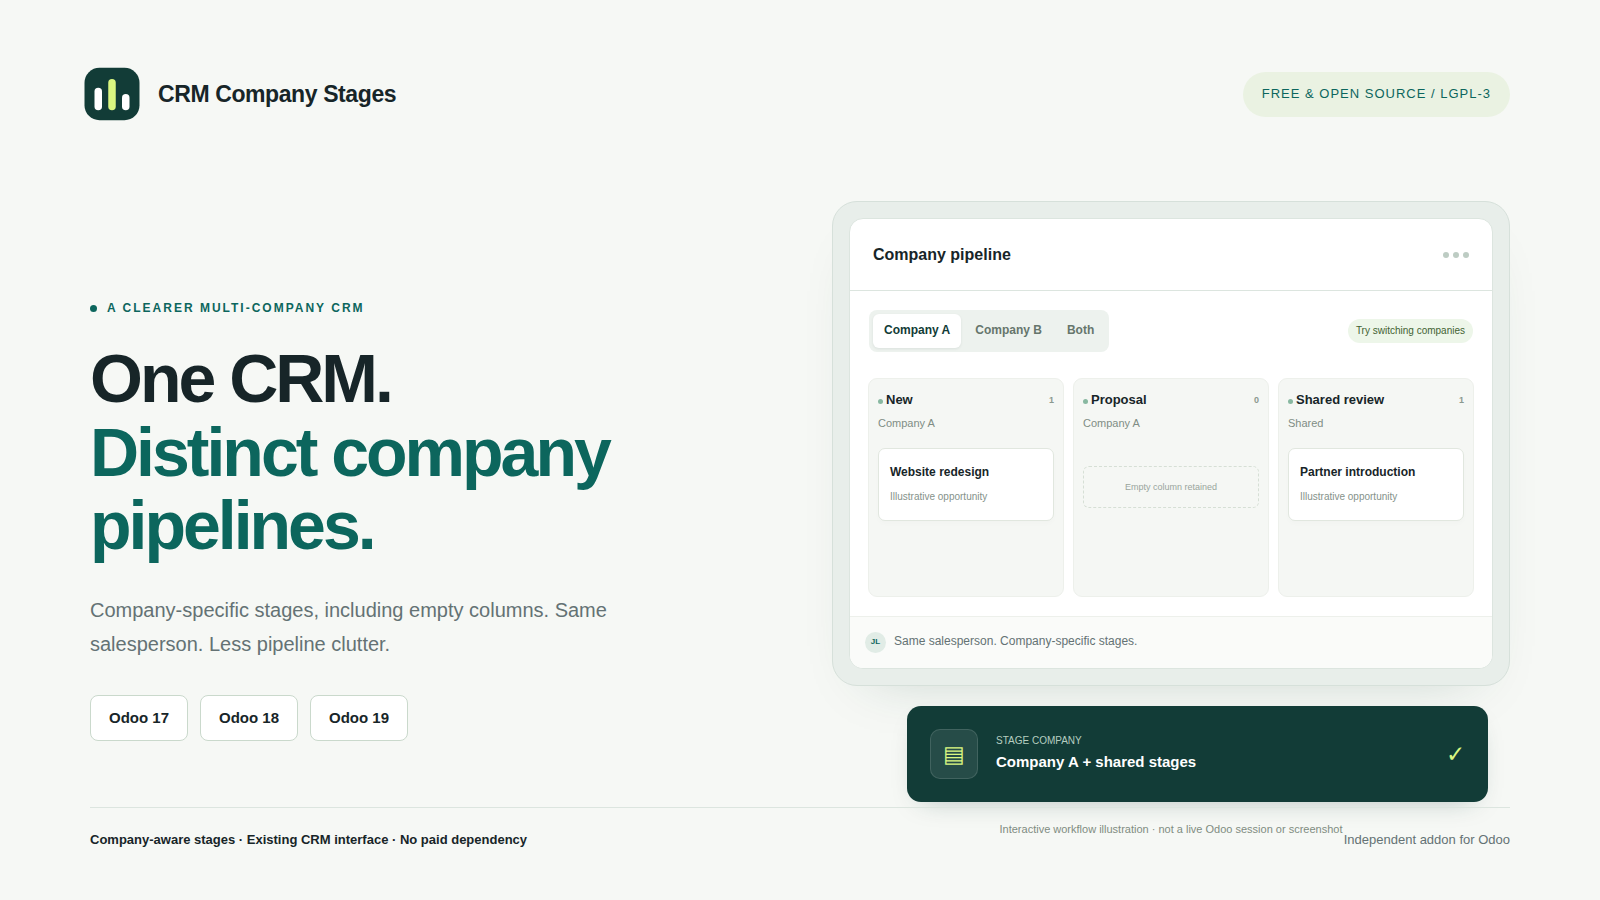
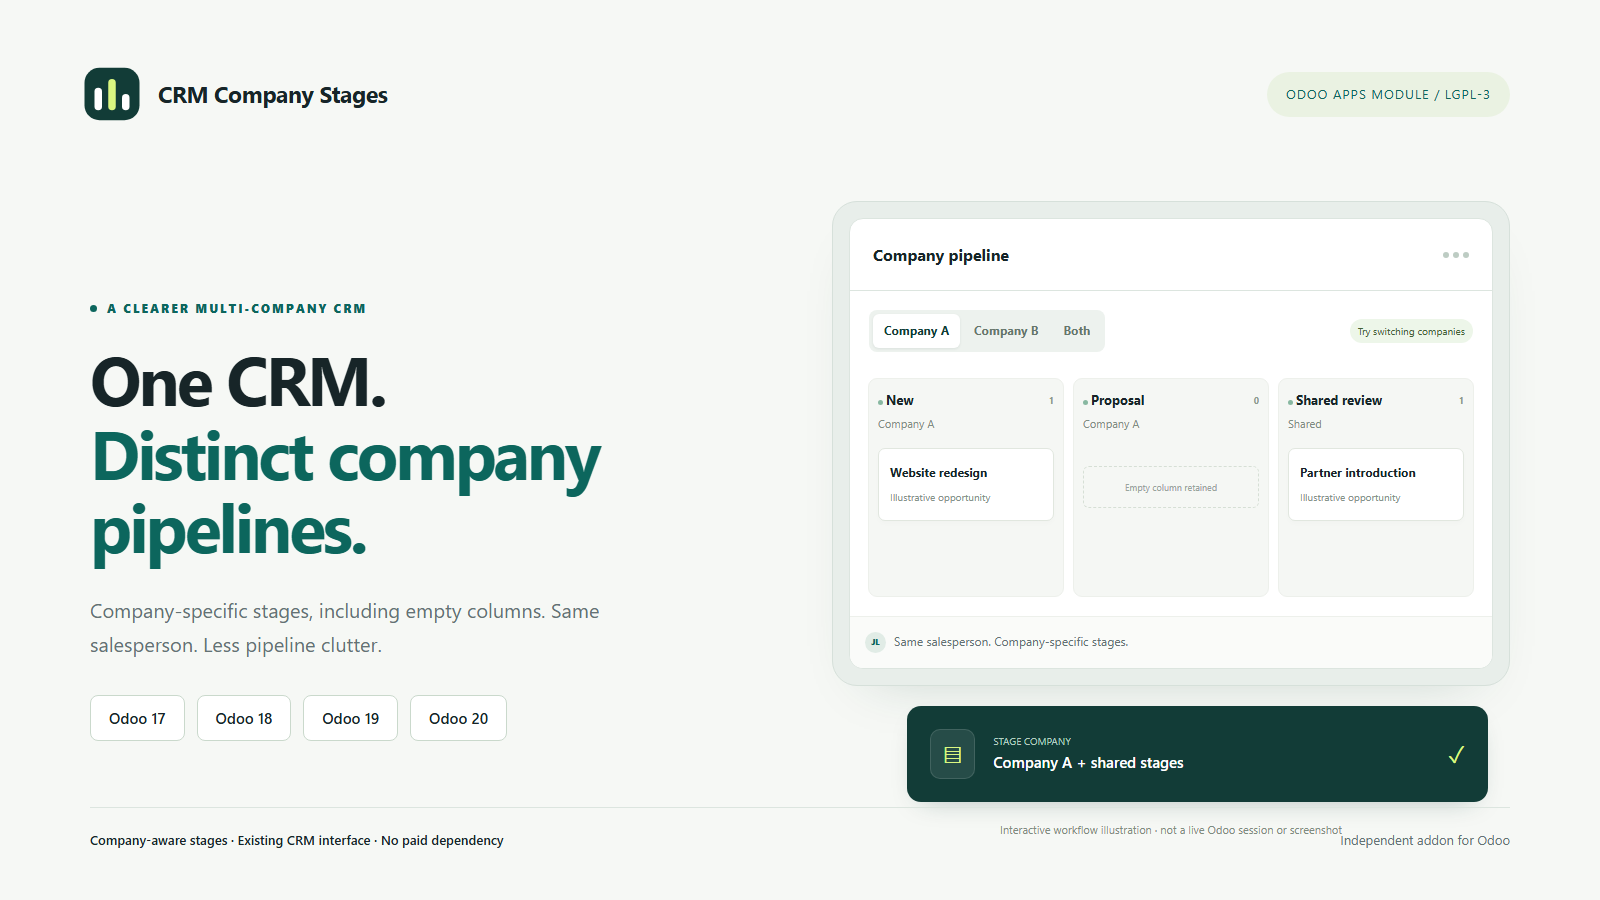
Set Ranvals Software publisher and Apps price

diff --git a/docs/index.html b/docs/index.html
@@ -2,7 +2,7 @@
 <html lang="en">
 <head>
 <meta charset="utf-8"><meta name="viewport" content="width=device-width,initial-scale=1">
-<meta name="description" content="Free, open-source company-specific CRM stages for Odoo 17, 18 and 19. Separate pipeline columns without splitting your salespeople.">
+<meta name="description" content="Open-source company-specific CRM stages for Odoo 17, 18, 19 and 20, published by Ranvals Software.">
 <title>CRM Company Stages — One CRM. Distinct pipelines.</title>
 <style>
 :root{--ink:#172528;--muted:#647274;--paper:#f6f8f5;--line:#dce5df;--teal:#0c665d;--dark:#123c37;--lime:#daf781;--white:#fff;--radius:24px}
@@ -10,32 +10,36 @@
 @media(max-width:1050px){.wrap{width:calc(100% - 48px)}.hero{gap:30px;padding:65px 0}.hero h1{font-size:48px}.navlinks{gap:18px}.board{grid-auto-columns:minmax(122px,1fr)}.demo-controls{flex-wrap:wrap}.small-badge{display:none}.flow{padding:35px;gap:35px}.section h2{font-size:34px}}
 @media(max-width:760px){.wrap{width:calc(100% - 36px)}.navin{height:76px;gap:10px}.brand{font-size:14px}.mark{height:38px;width:38px;padding:7px;gap:4px}.mark i{width:6px}.navlinks>a:not(.button){display:none}.navlinks .button{font-size:12px;padding:9px 12px;gap:8px}.hero{grid-template-columns:1fr;gap:37px;padding:48px 0}.hero h1{font-size:51px;letter-spacing:-2.5px}.hero p.lead{font-size:15px;max-width:100%}.eyebrow{font-size:10px;margin-bottom:21px;letter-spacing:1.5px}.demo-shell{padding:11px}.board{grid-auto-columns:minmax(132px,1fr);min-height:210px}.demo-top{padding:14px}.demo-controls{padding:12px 13px}.company-switch button{font-size:10px;padding:6px 10px}.setting{margin-left:40px;margin-right:10px;padding:15px}.compat{justify-content:center;gap:12px;text-align:center}.compat-label{width:100%}.compat-end{width:100%;font-size:11px}.versions{gap:28px}.section{padding:57px 0}.section-heading{display:block;margin-bottom:25px}.section-heading p{margin-top:17px}.section h2{font-size:32px}.features,.download-grid{grid-template-columns:1fr}.feature{padding:26px}.feature .num{margin-bottom:17px}.flow{grid-template-columns:1fr;padding:29px;gap:30px}.flow h2{font-size:32px}.faq-layout{grid-template-columns:1fr;gap:26px}.faq-layout>div>p{max-width:100%;margin-top:15px}.download p{min-height:0}.download h3{margin-top:15px}.download .top{font-size:12px}.bottom-cta{padding:29px;display:block}.bottom-cta h2{font-size:26px}.bottom-cta .button{margin-top:20px}.footerin{display:block}.footer p{text-align:left;margin-top:20px}.footer{margin-top:48px}.caption{font-size:9px}.installation{padding:22px}.micro{gap:12px;font-size:11px}}
 @media(prefers-reduced-motion:reduce){html{scroll-behavior:auto}*,*:before,*:after{transition:none!important;animation:none!important}}
+.download-grid{grid-template-columns:repeat(4,1fr)}
+@media(max-width:1050px){.download-grid{grid-template-columns:repeat(2,1fr)}}
+@media(max-width:760px){.download-grid{grid-template-columns:1fr}}
 </style>
 </head>
 <body>
 <a class="skip" href="#main">Skip to content</a>
-<header class="nav"><div class="wrap navin"><a class="brand" href="#main" aria-label="CRM Company Stages home"><span class="mark" aria-hidden="true"><i></i><i></i><i></i></span><span>CRM Company<br>Stages</span></a><nav class="navlinks" aria-label="Main navigation"><a href="#features">Features</a><a href="#how-it-works">How it works</a><a href="#faq">Questions</a><a class="button" href="#downloads">Get the free addon <span aria-hidden="true">↗</span></a></nav></div></header>
+<header class="nav"><div class="wrap navin"><a class="brand" href="#main" aria-label="CRM Company Stages home"><span class="mark" aria-hidden="true"><i></i><i></i><i></i></span><span>CRM Company<br>Stages</span></a><nav class="navlinks" aria-label="Main navigation"><a href="#features">Features</a><a href="#how-it-works">How it works</a><a href="#faq">Questions</a><a class="button" href="#downloads">View on Odoo Apps <span aria-hidden="true">↗</span></a></nav></div></header>
 <main id="main"><div class="wrap">
 <section class="hero">
-<div><p class="eyebrow">A small addon. A clearer pipeline.</p><h1>One CRM.<br><span>Distinct company<br>pipelines.</span></h1><p class="lead">Give every company its own sales stages, even when the salesperson is the same. Keep your familiar CRM. Leave the clutter behind.</p><div class="actions"><a class="button" href="#downloads">Download for free <span aria-hidden="true">↓</span></a><a class="button light" href="#how-it-works">See how it works <span aria-hidden="true">↗</span></a></div><div class="micro"><span><b>✓</b> LGPL-3 open source</span><span><b>✓</b> No paid dependencies</span></div></div>
+<div><p class="eyebrow">A small addon. A clearer pipeline.</p><h1>One CRM.<br><span>Distinct company<br>pipelines.</span></h1><p class="lead">Give every company its own sales stages, even when the salesperson is the same. Keep your familiar CRM. Leave the clutter behind.</p><div class="actions"><a class="button" href="#downloads">Choose your version <span aria-hidden="true">↓</span></a><a class="button light" href="#how-it-works">See how it works <span aria-hidden="true">↗</span></a></div><div class="micro"><span><b>✓</b> Published by Ranvals Software</span><span><b>✓</b> LGPL-3 open source</span><span><b>✓</b> No paid dependencies</span></div></div>
 <div class="visual">
 <div class="demo-shell"><div class="demo"><div class="demo-top"><strong>Company pipeline</strong><span class="fake-dots" aria-hidden="true"><i></i><i></i><i></i></span></div><div class="demo-controls"><div class="company-switch" role="group" aria-label="Illustrated selected companies"><button type="button" data-company="a" aria-pressed="true">Company A</button><button type="button" data-company="b" aria-pressed="false">Company B</button><button type="button" data-company="both" aria-pressed="false">Both</button></div><span class="small-badge">Try switching companies</span></div><div class="board" id="board" aria-label="Illustrated pipeline" aria-live="polite"></div><div class="demo-bottom"><span class="avatar" aria-hidden="true">JL</span><span>Same salesperson. Company-specific stages.</span></div></div></div>
 <div class="setting"><div class="setting-icon" aria-hidden="true">▤</div><div><span>STAGE COMPANY</span><strong id="scope-label">Company A + shared stages</strong></div><span class="check" aria-hidden="true">✓</span></div>
 <p class="caption">Interactive workflow illustration · not a live Odoo session or screenshot</p>
 </div>
 </section>
-<div class="compat"><span class="compat-label">Separate packages for</span><div class="versions"><strong>Odoo 17</strong><strong>Odoo 18</strong><strong>Odoo 19</strong></div><span class="compat-end">Community core · Odoo.sh or self-hosted</span></div>
+<div class="compat"><span class="compat-label">Separate packages for</span><div class="versions"><strong>Odoo 17</strong><strong>Odoo 18</strong><strong>Odoo 19</strong><strong>Odoo 20</strong></div><span class="compat-end">Community core · Odoo.sh or self-hosted</span></div>
 <section class="section" id="features"><div class="section-heading"><div><p class="eyebrow">Built around your workflow</p><h2>The right stages.<br>For the right company.</h2></div><p>No new dashboard to learn. A focused extension to the CRM screens your team already uses.</p></div><div class="features">
 <article class="feature"><div class="num">01</div><h3>Company-aware columns</h3><p>Show stages for selected companies, including empty columns. Leave Company blank when a stage genuinely belongs to everyone.</p></article>
 <article class="feature"><div class="num">02</div><h3>Consistency beyond the UI</h3><p>Check company compatibility when opportunities are created or updated. A different company's stage cannot silently slip in through an import or drag-and-drop.</p></article>
 <article class="feature"><div class="num">03</div><h3>Keep your existing setup</h3><p>Preserve sales-team restrictions and normal CRM permissions. Existing stages stay shared until you deliberately assign a company.</p></article>
 </div></section>
 <section id="how-it-works"><div class="flow"><div><p class="eyebrow">A familiar place to configure</p><h2>Open the stage.<br>Choose the company.<br>That’s the idea.</h2><p>Company ownership lives beside the stage's sales-team settings. Your representatives can keep working across companies.</p><div class="flow-note"><span aria-hidden="true">ⓘ</span><span>Select one company for a separated view. Selecting both companies intentionally shows both sets of stages.</span></div></div><div><div class="step"><span>01</span><div><h3>Select your working company</h3><p>Use the standard company selector. Keep just one company selected to hide the other company's stages.</p></div></div><div class="step"><span>02</span><div><h3>Open gear → Edit on a stage</h3><p>Set the Company field and choose a compatible sales team. Leave Company empty for a shared stage.</p></div></div><div class="step"><span>03</span><div><h3>Work in a clearer pipeline</h3><p>Columns follow the selected companies. Bulk Won actions resolve a suitable stage for each company and sales team.</p></div></div></div></div></section>
-<section class="section" id="downloads"><div class="section-heading"><div><p class="eyebrow">Free means free</p><h2>Choose your Odoo version.</h2></div><p>No subscription, API key or license server. Each archive contains one installable addon folder.</p></div><div class="download-grid">
-<article class="download"><div class="top"><span>FREE / LGPL-3</span><span>ZIP</span></div><h3>Odoo 17</h3><div class="version">17.0.1.0.0</div><p>Ported for the 17.0 stage model and ordered group-expansion API.</p><a class="button light" download href="downloads/crm_company_stages-17.0.1.0.0.zip">Download Odoo 17 <span aria-hidden="true">↓</span></a></article>
-<article class="download"><div class="top"><span>FREE / LGPL-3</span><span>ZIP</span></div><h3>Odoo 18</h3><div class="version">18.0.1.0.0</div><p>Ported for the 18.0 stage model and updated group-expansion API.</p><a class="button light" download href="downloads/crm_company_stages-18.0.1.0.0.zip">Download Odoo 18 <span aria-hidden="true">↓</span></a></article>
-<article class="download recommended"><div class="top"><span>FREE / LGPL-3</span><span class="version-pill">19.0 edition</span></div><h3>Odoo 19</h3><div class="version">19.0.1.0.0</div><p>Uses the 19.0 Domain API and native multiple-sales-team stages.</p><a class="button" download href="downloads/crm_company_stages-19.0.1.0.0.zip">Download Odoo 19 <span aria-hidden="true">↓</span></a></article>
-</div><div class="release-note"><strong>Free community release.</strong> Version branches are published only after their Odoo/PostgreSQL integration checks pass. See the repository Actions and VALIDATION.md for the tested commits. Validate your own installation in staging before production. Odoo Apps submission is a separate step.</div>
+<section class="section" id="downloads"><div class="section-heading"><div><p class="eyebrow">Available on Odoo Apps</p><h2>Choose your Odoo version.</h2></div><p>EUR 9.00 list price. No subscription, API key or remote license server.</p></div><div class="download-grid">
+<article class="download"><div class="top"><span>EUR 9.00 / LGPL-3</span><span>ODOO APPS</span></div><h3>Odoo 17</h3><div class="version">17.0.1.0.0</div><p>Ported for the 17.0 stage model and ordered group-expansion API.</p><a class="button light" href="https://apps.odoo.com/apps/modules/17.0/crm_company_stages">Open Odoo 17 <span aria-hidden="true">↗</span></a></article>
+<article class="download"><div class="top"><span>EUR 9.00 / LGPL-3</span><span>ODOO APPS</span></div><h3>Odoo 18</h3><div class="version">18.0.1.0.0</div><p>Ported for the 18.0 stage model and updated group-expansion API.</p><a class="button light" href="https://apps.odoo.com/apps/modules/18.0/crm_company_stages">Open Odoo 18 <span aria-hidden="true">↗</span></a></article>
+<article class="download recommended"><div class="top"><span>EUR 9.00 / LGPL-3</span><span class="version-pill">19.0 edition</span></div><h3>Odoo 19</h3><div class="version">19.0.1.0.0</div><p>Uses the 19.0 Domain API and native multiple-sales-team stages.</p><a class="button" href="https://apps.odoo.com/apps/modules/19.0/crm_company_stages">Open Odoo 19 <span aria-hidden="true">↗</span></a></article>
+<article class="download"><div class="top"><span>EUR 9.00 / LGPL-3</span><span class="version-pill">20.0 edition</span></div><h3>Odoo 20</h3><div class="version">20.0.1.0.0</div><p>Ported and tested for Odoo 20's unified access-control structure.</p><a class="button light" href="https://apps.odoo.com/apps/modules/20.0/crm_company_stages">Open Odoo 20 <span aria-hidden="true">↗</span></a></article>
+</div><div class="release-note"><strong>Published by Ranvals Software.</strong> Each branch includes static checks and integration tests for its matching Odoo version. Validate your own installation in staging before production.</div>
 <div class="installation" id="install"><h3>Install in the matching Odoo version</h3><p>Back up your database. Place <code>crm_company_stages</code> in your addons path, restart Odoo and update the Apps list. Remove the default Apps filter if necessary, then install <strong>CRM Company Stages</strong>.</p><p>This addon extends CRM and does not create a separate main menu. Use Odoo.sh or a self-hosted instance; standard Odoo Online does not support this Python addon. Odoo hosting and licensing costs are separate.</p><p><strong>Already using the previous Company Stages addon?</strong> Do not install both versions or uninstall the old addon just to rename it. A tested technical-name migration is required; a pre-install safeguard prevents accidental coexistence.</p></div></section>
 <section class="section" id="faq" style="padding-top:15px"><div class="faq-layout"><div><p class="eyebrow">Good to know</p><h2>Clear boundaries.<br>No surprises.</h2><p>A small tool with a specific job: company-aware CRM pipeline stages.</p></div><div class="faq">
 <details open><summary>Can one salesperson work in both companies?</summary><p>Yes. The stage belongs to a company independently of the salesperson. Existing opportunity access rules still apply; this addon does not grant new permissions.</p></details>
@@ -46,7 +50,7 @@
 <details><summary>Are there paid dependencies or tracking services?</summary><p>No. The addon adds no paid dependency, remote license check, telemetry or API service. The static website uses no analytics, external fonts, cookies or account system.</p></details>
 <details><summary>What testing and support are included?</summary><p>Each package includes 38 Odoo integration test methods plus a Turkish QA report. The publication workflow runs these tests in disposable Odoo/PostgreSQL databases; inspect the repository Actions for results. Community support has no promised response time; there is no paid support contract included.</p></details>
 </div></div></section>
-<section class="bottom-cta"><div><h2>Less pipeline clutter. More clarity.</h2><p>Your companies can share a team without sharing every stage.</p></div><a class="button" href="#downloads">Get the free source <span aria-hidden="true">↗</span></a></section>
+<section class="bottom-cta"><div><h2>Less pipeline clutter. More clarity.</h2><p>Your companies can share a team without sharing every stage.</p></div><a class="button" href="#downloads">View on Odoo Apps <span aria-hidden="true">↗</span></a></section>
 </div></main>
 <footer class="footer"><div class="wrap footerin"><a class="brand" href="#main"><span class="mark" aria-hidden="true"><i></i><i></i><i></i></span><span>CRM Company Stages</span></a><p>Independent, open-source addon · LGPL-3.0-or-later<br>Not an official Odoo product or endorsement. Odoo is a trademark of its respective owner.</p></div></footer>
 <script>

diff --git a/presentation/cover.html b/presentation/cover.html
@@ -6,7 +6,7 @@
 @media(prefers-reduced-motion:reduce){html{scroll-behavior:auto}*,*:before,*:after{transition:none!important;animation:none!important}}
 
 body{width:1600px;height:900px;background:#f6f8f5;overflow:hidden}.cover{padding:72px 90px}.head{display:flex;justify-content:space-between;align-items:center}.head .brand{font-size:23px}.head .mark{transform:scale(1.25);margin-right:12px}.free{font-size:13px;letter-spacing:1px;color:#0c665d;background:#eaf2e2;padding:12px 19px;border-radius:30px}.cover-grid{display:grid;grid-template-columns:1fr 1fr;gap:64px;align-items:center;margin-top:84px}.cover h1{font-size:68px;line-height:1.08;letter-spacing:-3px;margin:0 0 30px;font-weight:650}.cover h1 span{color:#0c665d}.desc{font-size:20px;line-height:1.7;color:#647274;max-width:560px}.cover .eyebrow{font-size:12px}.chips{display:flex;gap:12px;margin-top:34px}.chips span{border:1px solid #cad9cc;background:white;border-radius:8px;font-size:15px;padding:10px 18px;font-weight:600}.cover .demo-top{padding:23px;font-size:16px}.cover .demo-top strong{font-size:16px}.cover .board{min-height:245px;grid-auto-columns:minmax(165px,1fr)}.cover .column-title{font-size:13px}.cover .scope{font-size:11px}.cover .opportunity{font-size:12px;padding:14px 11px}.cover .opportunity small{font-size:10px}.cover .demo-controls{padding:19px}.cover .demo-bottom{font-size:12px;padding:15px}.cover .company-switch button{font-size:12px}.cover .setting{margin-top:20px;padding:23px}.cover .setting strong{font-size:15px}.cover .caption{font-size:11px;margin-top:19px}.foot{position:absolute;bottom:49px;left:90px;right:90px;border-top:1px solid #dce5df;padding-top:22px;display:flex;justify-content:space-between;color:#647274;font-size:13px}.foot strong{color:#172528;font-weight:600}
-</style><body><div class="cover"><div class="head"><div class="brand"><span class="mark"><i></i><i></i><i></i></span><span>CRM Company Stages</span></div><div class="free">FREE & OPEN SOURCE / LGPL-3</div></div><div class="cover-grid"><div><p class="eyebrow">A clearer multi-company CRM</p><h1>One CRM.<br><span>Distinct company<br>pipelines.</span></h1><p class="desc">Company-specific stages, including empty columns. Same salesperson. Less pipeline clutter.</p><div class="chips"><span>Odoo 17</span><span>Odoo 18</span><span>Odoo 19</span></div></div><div class="visual">
+</style><body><div class="cover"><div class="head"><div class="brand"><span class="mark"><i></i><i></i><i></i></span><span>CRM Company Stages</span></div><div class="free">ODOO APPS MODULE / LGPL-3</div></div><div class="cover-grid"><div><p class="eyebrow">A clearer multi-company CRM</p><h1>One CRM.<br><span>Distinct company<br>pipelines.</span></h1><p class="desc">Company-specific stages, including empty columns. Same salesperson. Less pipeline clutter.</p><div class="chips"><span>Odoo 17</span><span>Odoo 18</span><span>Odoo 19</span><span>Odoo 20</span></div></div><div class="visual">
 <div class="demo-shell"><div class="demo"><div class="demo-top"><strong>Company pipeline</strong><span class="fake-dots" aria-hidden="true"><i></i><i></i><i></i></span></div><div class="demo-controls"><div class="company-switch" role="group" aria-label="Illustrated selected companies"><button type="button" data-company="a" aria-pressed="true">Company A</button><button type="button" data-company="b" aria-pressed="false">Company B</button><button type="button" data-company="both" aria-pressed="false">Both</button></div><span class="small-badge">Try switching companies</span></div><div class="board" id="board" aria-label="Illustrated pipeline" aria-live="polite"></div><div class="demo-bottom"><span class="avatar" aria-hidden="true">JL</span><span>Same salesperson. Company-specific stages.</span></div></div></div>
 <div class="setting"><div class="setting-icon" aria-hidden="true">▤</div><div><span>STAGE COMPANY</span><strong id="scope-label">Company A + shared stages</strong></div><span class="check" aria-hidden="true">✓</span></div>
 <p class="caption">Interactive workflow illustration · not a live Odoo session or screenshot</p>

diff --git a/README.md b/README.md
@@ -1,7 +1,8 @@
 # CRM Company Stages
 
-Free, open-source company-specific CRM stages for Odoo 17, 18 and 19.
-Technical name: `crm_company_stages`. License: LGPL-3.0-or-later.
+Open-source company-specific CRM stages for Odoo 17, 18, 19 and 20,
+published by **Ranvals Software**. Technical name: `crm_company_stages`.
+License: LGPL-3.0-or-later. Odoo Apps price: **EUR 9.00**.
 
 ## Addon branches
 
@@ -10,9 +11,10 @@ Technical name: `crm_company_stages`. License: LGPL-3.0-or-later.
 | 17 | [17.0](https://github.com/RanvalsSoftware/odoo-crm-company-stages/tree/17.0) | `crm_company_stages/` |
 | 18 | [18.0](https://github.com/RanvalsSoftware/odoo-crm-company-stages/tree/18.0) | `crm_company_stages/` |
 | 19 | [19.0](https://github.com/RanvalsSoftware/odoo-crm-company-stages/tree/19.0) | `crm_company_stages/` |
+| 20 | [20.0](https://github.com/RanvalsSoftware/odoo-crm-company-stages/tree/20.0) | `crm_company_stages/` |
 
 `main` contains the standalone promotional site under `docs/` and publication documentation.
-The module has no price or paid dependency. Other repositories are unaffected.
+The module has no paid dependency, remote license server or telemetry.
 
 ## What it does
 
@@ -23,11 +25,12 @@ intentionally shows both companies' stages. This addon scopes stages, not tags.
 
 ## Validation
 
-The publication workflow runs the provided 38 Odoo integration tests for **each**
-version in disposable Odoo/PostgreSQL containers before creating version branches.
+The publication workflow ran the provided integration tests for Odoo 17, 18 and
+19 before creating those branches. The Odoo 20 port was installed and tested in
+a clean Odoo/PostgreSQL environment before publication.
 Review the [workflow runs](https://github.com/RanvalsSoftware/odoo-crm-company-stages/actions) for actual results and commit references.
-Static validation covers 552 domain cases across the three versions. Browser
-smoke tests on the target installation remain recommended.
+Static validation covers the company, team and stage-domain combinations for
+all supported versions. Browser smoke tests on the target installation remain recommended.
 
 The demonstration graphics are illustrations, not real Odoo screenshots.
 The build regenerates the original supplied HTML artwork as PNG files.

diff --git a/PUBLISH_TR.md b/PUBLISH_TR.md
@@ -2,7 +2,7 @@
 
 Hesap: RanvalsSoftware. Depo: odoo-crm-company-stages.
 Ürün adı: CRM Company Stages. Teknik ad: crm_company_stages.
-Ücretsiz dağıtım: manifestte fiyat yok, LGPL-3.
+Yayıncı: Ranvals Software. Odoo Apps liste fiyatı: 9,00 EUR. Lisans: LGPL-3.
 
 ## Odoo Apps
 
@@ -13,6 +13,7 @@ deposunu kaydedin. Dalları ayrı kayıt olarak isteyen arayüz için adresler:
 https://github.com/RanvalsSoftware/odoo-crm-company-stages.git#17.0
 https://github.com/RanvalsSoftware/odoo-crm-company-stages.git#18.0
 https://github.com/RanvalsSoftware/odoo-crm-company-stages.git#19.0
+https://github.com/RanvalsSoftware/odoo-crm-company-stages.git#20.0
 ```
 
 Dallar taranmalı; tarama ve mağaza onayı GitHub'a yüklemeden ayrıdır. Mağaza
